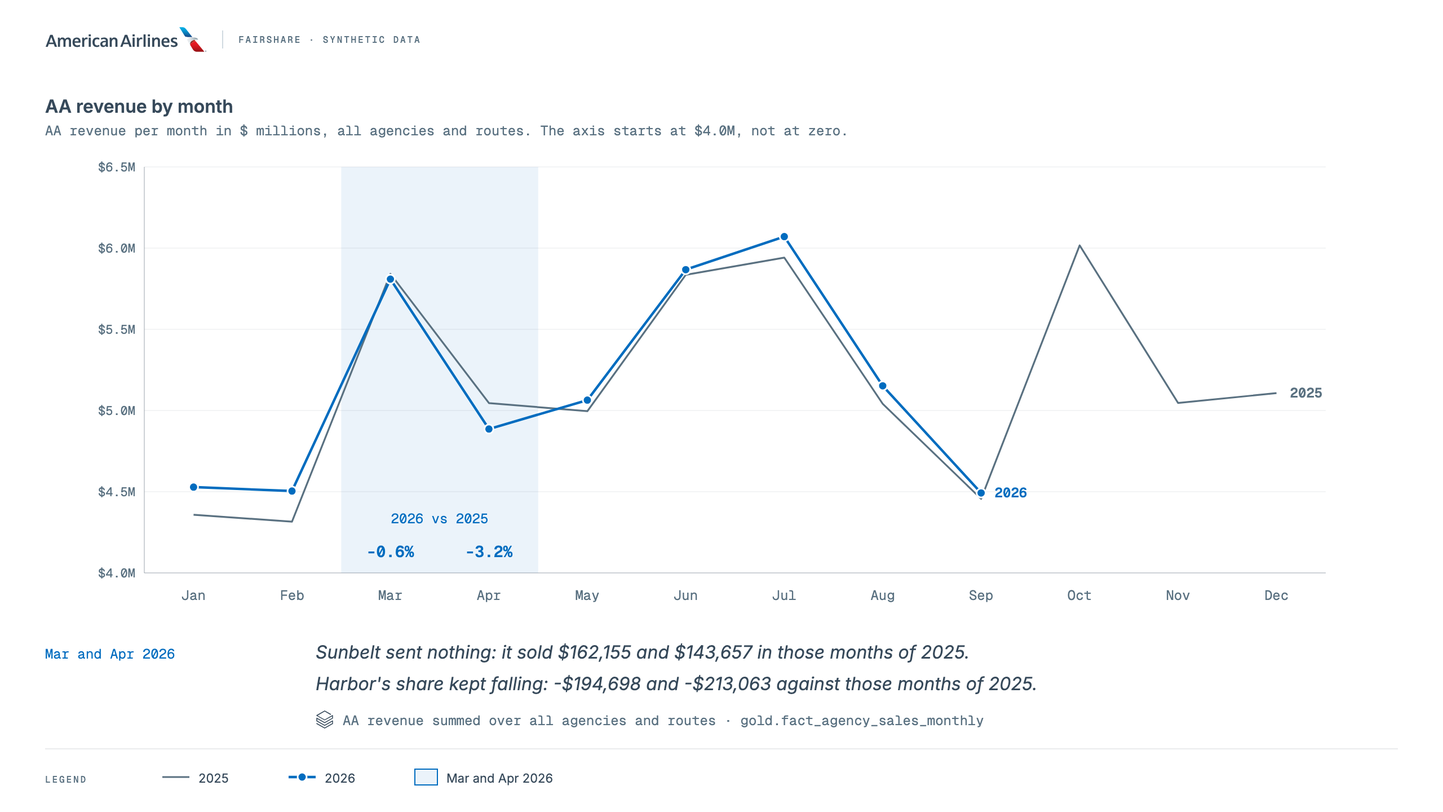
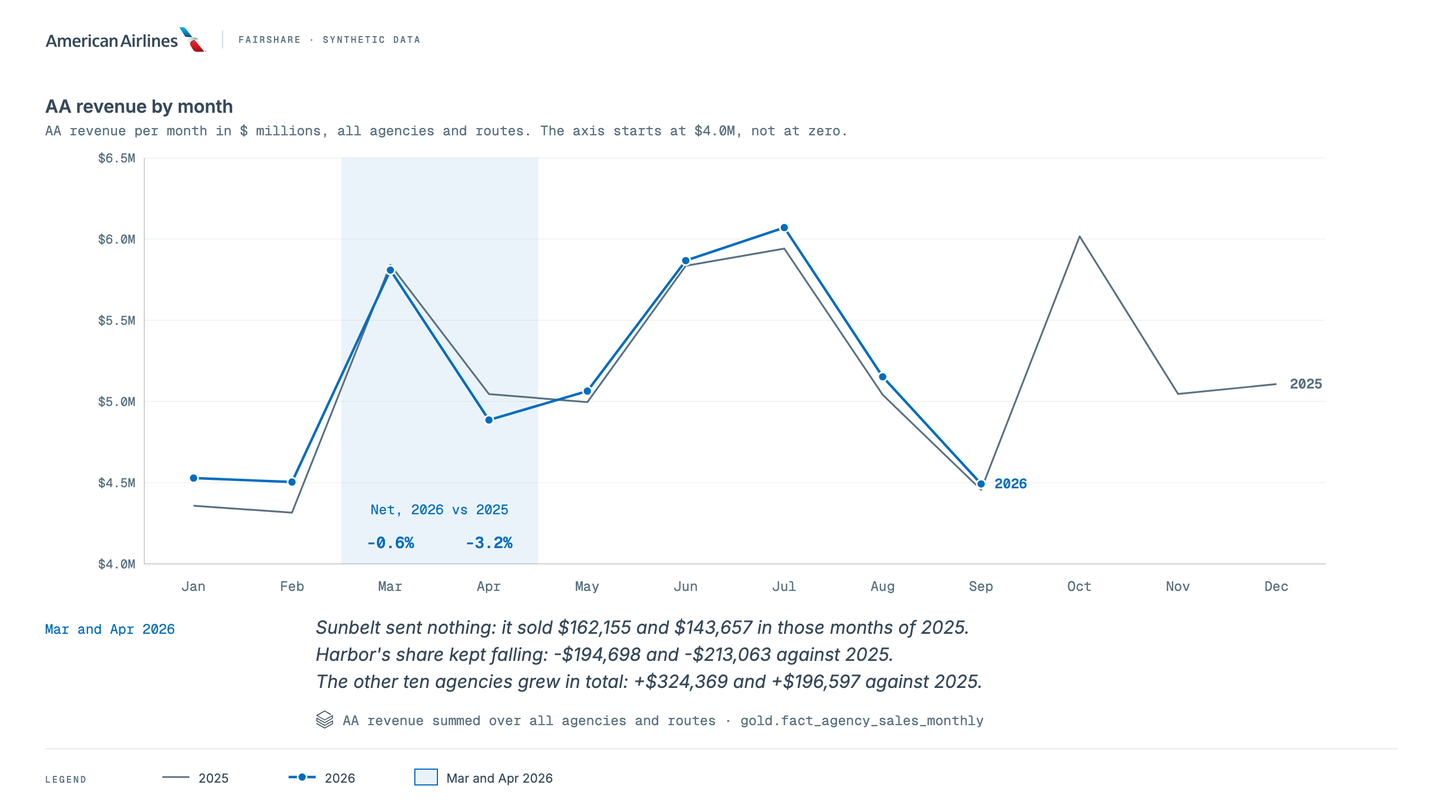
diagrams: 11's callout adds up to the net change, and deck_facts gets display()
The callout named two causes that add up to about -$357K in each month, while the lines move only
-$32K in March and -$160K in April, because the other agencies grew. It now names all three.

deck_facts.py has two new facts, others_mar26_chg_usd (+$324,369) and others_apr26_chg_usd
(+$196,597): the change in AA revenue against the same month of 2025, added up over every agency
except Sunbelt Vacations and Harbor Business Travel. facts.json is regenerated (56 facts).

Figure 11 says "grew in total" because not every one of the ten grew (8 in March, 7 in April).
The band's caption now says Net, and the builder asserts on every build that Sunbelt's loss,
Harbor's change and the others' change add up to the change the two lines show, to within the
dollar or two the rounding of three parts can add.

display(key) sits beside fact() in deck_facts.py and returns the string a slide shows, from the
same formatter that writes facts.json. Both builders use it in place of their own shown(), and a
new test checks display() against the stored string for every fact. Figure 10 is unchanged.

diff --git a/docs/diagrams/11-revenue-by-month.html b/docs/diagrams/11-revenue-by-month.html
@@ -38,56 +38,57 @@
     <div class="diagram-container">
       <svg viewBox="0 0 1280 720" xmlns="http://www.w3.org/2000/svg" role="img" aria-labelledby="11-revenue-by-month-title 11-revenue-by-month-desc">
         <title id="11-revenue-by-month-title">AA revenue by month</title>
-        <desc id="11-revenue-by-month-desc">Two lines of AA revenue by calendar month, 2025 against 2026: 2026 runs above 2025 except in Mar and Apr 2026, when Sunbelt sent nothing and Harbor's share kept falling.</desc>
+        <desc id="11-revenue-by-month-desc">Two lines of AA revenue by calendar month, 2025 against 2026: 2026 runs above 2025 except in Mar and Apr 2026, when Sunbelt sent nothing and Harbor's share kept falling, though the other agencies grew in total.</desc>
         <rect width="100%" height="100%" fill="#ffffff"/>
         <g data-brand="aa-logo" aria-hidden="true"><svg x="40" y="24" width="143.48" height="22" viewBox="0 0 300 46" aria-hidden="true"><linearGradient id="aa-logo-a" gradientUnits="userSpaceOnUse" x1="282.3005" x2="282.3005" y1="26.0772" y2="55.6668"><stop offset="0" stop-color="#ed1c24"/><stop offset=".1263" stop-color="#e81b23"/><stop offset=".2703" stop-color="#db1a21"/><stop offset=".4229" stop-color="#c4171d"/><stop offset=".5816" stop-color="#a41317"/><stop offset=".7436" stop-color="#7b0e10"/><stop offset=".7546" stop-color="#780e0f"/></linearGradient><linearGradient id="aa-logo-b" gradientUnits="userSpaceOnUse" x1="268.8272" x2="279.6261" y1="28.5396" y2="28.5396"><stop offset="0" stop-color="#69231d"/><stop offset=".2647" stop-color="#8d2922"/><stop offset=".5812" stop-color="#b22f26"/><stop offset=".8377" stop-color="#c93329"/><stop offset="1" stop-color="#d1342a"/></linearGradient><linearGradient id="aa-logo-c" gradientUnits="userSpaceOnUse" x1="267.6408" x2="279.6741" y1="26.9613" y2="19.731"><stop offset=".1" stop-color="#e7ebee"/><stop offset=".3511" stop-color="#d5dce0"/><stop offset=".8549" stop-color="#a5b4bb"/><stop offset="1" stop-color="#96a7b0"/></linearGradient><linearGradient id="aa-logo-d" gradientUnits="userSpaceOnUse" x1="261.0076" x2="261.0076" y1="20.8726" y2=".4301"><stop offset="0" stop-color="#1c2f72"/><stop offset=".1275" stop-color="#174687"/><stop offset=".4038" stop-color="#0d72af"/><stop offset=".6512" stop-color="#0692cc"/><stop offset=".8584" stop-color="#02a6de"/><stop offset="1" stop-color="#00ade4"/></linearGradient><path d="m274.15 41.58c2.61 4.29 6.78 4.2 7.89 4.2h13.41l-15.82-19.2c-7.3.3-11.16 4.98-10.37 6.94z" fill="url(#aa-logo-a)"/><path d="m269.26 33.53c-.02-.03-.43-1-.43-2.17 0-4.38 3.89-6.9 8.3-7.8l2.5 3.03c-7.3.29-11.16 4.97-10.37 6.94z" fill="url(#aa-logo-b)"/><path d="m275.36 19.27c-6.67 0-11.65 1.1-11.65 3.71 0 .96.3 1.79 1.12 3.26l4.43 7.28c-.02-.03-.43-1-.43-2.17 0-4.38 3.89-6.9 8.3-7.8 1.28-.26 2.6-.39 3.88-.39 1.08 0 2.1.06 2.88.34-.46-1.68-1.68-4.23-8.53-4.23z" fill="url(#aa-logo-c)"/><path d="m257.82 14.73c1.83 3.01 2.51 3.76 6.88 3.76h8.34l-11.5-14.52c-2.54-3.14-4-3.71-6.33-3.76h-6.23z" fill="url(#aa-logo-d)"/><path d="m130.35 36.68v-10.95c0-2.09-.95-3.37-2.74-3.37-2.37 0-3.94 2.52-3.94 5.92v8.4h-3.84s0-12.11 0-12.45c0-1.37-.13-3.37-.19-4.5h3.09c.35 0 .45.15.46.46.01.36.04 2.12.04 2.12h.09c.47-.8 1.65-2.93 5.2-2.93 3.66 0 5.71 2.5 5.71 5.31v12h-3.88zm-30.08-3.72c.1 0 .25.07.28.36.07.81.1 2.13.11 2.54-.77.39-2.44 1.14-4.48 1.14-5.14 0-8.28-2.98-8.28-8.81 0-5.46 2.8-8.82 8.28-8.82 1.82 0 3.49.64 4.48 1.14 0 .6-.06 1.97-.11 2.55-.02.24-.14.36-.28.36-.15 0-.2-.04-.3-.08-1.24-.61-2.4-.9-3.45-.9-3.27 0-4.61 2.14-4.61 5.76 0 3.22 1.08 5.75 4.61 5.75 1.35 0 2.58-.48 3.35-.85.2-.1.24-.14.4-.14zm13.3 3.72c-.31 0-.57-.1-.6-.55-.04-.55-.11-1.62-.11-1.62-.28.31-1.68 2.5-5.2 2.5-3.37 0-5.31-2.6-5.31-5.45 0-3.96 3.84-5.94 9.54-5.94h.76v-.62c0-1.78-1.26-2.73-3.62-2.73-2.12 0-3.89.75-4.57 1.09-.05.02-.17.1-.29.1-.18 0-.29-.11-.3-.31-.03-.64-.1-1.86-.11-2.64.69-.27 3-1.12 5.53-1.12 5.04 0 7.2 2.34 7.2 6.07v6.61c0 2.41.22 3.99.3 4.62 0-.01-2.95-.01-3.22-.01zm-.93-8.6s-.58 0-.65 0c-4.83 0-5.79 1.68-5.79 3.39 0 1.39.92 2.72 2.73 2.72 2.4 0 3.71-2.32 3.71-4.76zm-48.27 4.88c.21 0 .27.19.29.38.07.72.13 2.36.12 2.77-.41.13-2.48.89-5.26.89-5.4 0-8.64-2.79-8.64-8.81 0-5.15 2.77-8.82 7.75-8.82 4.88 0 7.21 3.27 7.21 7.32 0 .48-.05 1.28-.14 2.35h-10.87c0 2.9 1.85 4.98 5.25 4.98 1.88 0 3.38-.67 3.97-.96.11-.06.18-.1.32-.1zm-9.5-6.5h7.13c.15-2.73-1.28-4.26-3.45-4.26-2.27 0-3.57 1.64-3.68 4.26zm-10.64 10.22v-10.84c0-1.95-.83-3.47-2.82-3.47-2.25 0-3.54 2.46-3.54 5.9v8.42h-3.85v-10.89c0-1.78-.74-3.44-2.81-3.44-2.28 0-3.55 2.45-3.55 6.02v8.29h-3.85s0-10.71 0-12.35c0-1.59-.14-3.85-.19-4.6h3.08c.35 0 .46.11.47.47.01.45.04 2.1.04 2.1h.09c.24-.48 1.5-2.93 5.03-2.93 3.29 0 4.55 2.36 4.86 3.09.3-.64 1.77-3.09 5.08-3.09 3.45 0 5.8 1.85 5.8 5.57v11.74h-3.84zm28.42-8.27v8.27h-3.85s0-11.42 0-12.6c0-1.21-.14-3.52-.19-4.36h3.11c.33 0 .44.14.44.47.01.5.04 2.1.04 2.1h.09c.31-.73 1.4-2.93 4.59-2.93 1.07 0 1.87.34 2 .4 0 .73-.08 2.33-.12 2.76-.02.28-.15.37-.28.37s-.19-.03-.27-.06c-.24-.1-.8-.27-1.57-.27-2.06.01-3.99 1.49-3.99 5.85zm8.26 8.27v-16.95h3.84v16.95zm-.05-19.43v-3.72h3.94v3.72zm-62.88 19.43-1.77-5h-9.42l-1.77 5h-4.02l8.45-22.26h4.48l8.31 22.26zm-6.44-18.2h-.07l-3.6 10.18h7.28zm226.82 18.52c5.01 0 7.41-2.05 7.41-5.09 0-3-2.13-4.26-4.39-5-.65-.21-1.28-.42-1.87-.62-1.54-.51-2.35-1.18-2.35-2.18 0-1.06.96-1.8 2.97-1.8 1.78 0 3.24.73 3.81 1 .1.04.18.11.34.11.12 0 .27-.08.29-.38.04-.57.11-1.6.11-2.59-.47-.21-2.15-1.08-4.86-1.08-4.14 0-6.68 2.15-6.68 4.99 0 2.75 1.88 4.01 3.96 4.7.48.16 1.36.45 1.88.63 2.16.72 2.78 1.37 2.78 2.38 0 1.32-1.41 1.97-3.82 1.97-1.98 0-3.35-.73-3.9-.98-.11-.05-.18-.11-.33-.11-.28 0-.29.38-.29.44-.01.18-.1 1.94-.1 2.52.43.21 2.4 1.09 5.04 1.09zm-9.01-4.04c.21 0 .28.19.29.38.07.72.13 2.36.12 2.77-.41.13-2.48.89-5.26.89-5.4 0-8.64-2.79-8.64-8.8 0-5.16 2.77-8.83 7.74-8.83 4.89 0 7.21 3.27 7.21 7.32 0 .48-.05 1.28-.14 2.35h-10.87c0 2.89 1.85 4.97 5.25 4.97 1.88 0 3.37-.67 3.96-.96.13-.04.2-.09.34-.09zm-9.5-6.5h7.12c.15-2.73-1.29-4.26-3.45-4.26-2.26 0-3.56 1.64-3.67 4.26zm-10.65 10.22v-10.95c0-2.09-.95-3.37-2.74-3.37-2.37 0-3.94 2.52-3.94 5.92v8.4h-3.85s0-12.11 0-12.45c0-1.37-.13-3.37-.19-4.5h3.09c.35 0 .45.14.45.46.01.36.04 2.12.04 2.12h.09c.46-.8 1.65-2.93 5.19-2.93 3.66 0 5.7 2.5 5.7 5.31v12h-3.84zm-35.04-8.27v8.27h-3.86s0-11.42 0-12.6c0-1.21-.14-3.52-.19-4.35h3.11c.34 0 .43.14.44.47.01.5.03 2.1.03 2.1h.09c.3-.73 1.4-2.93 4.59-2.93 1.07 0 1.86.35 1.99.4 0 .73-.08 2.33-.12 2.75-.03.28-.15.37-.28.37s-.19-.03-.26-.06c-.24-.1-.8-.27-1.58-.27-2.03.01-3.96 1.49-3.96 5.85zm12.27 8.27v-23.13h-3.85v23.13zm-24.16 0v-16.95h3.85v16.95zm-.05-19.43v-3.72h3.94v3.72zm28.41 19.43v-16.95h3.85v16.95zm-.05-19.43v-3.72h3.94v3.72zm-34.15 19.43-1.76-5h-9.43l-1.77 5h-4.02l8.44-22.26h4.48l8.31 22.26zm-6.45-18.2h-.07l-3.6 10.18h7.28zm149.02 26.29c0 .57-.45 1.02-1.02 1.02s-1.02-.45-1.02-1.02c0-.56.45-1.02 1.02-1.02.57-.01 1.02.45 1.02 1.02zm-1.84 0c0 .45.37.82.82.82s.82-.37.82-.82-.37-.82-.82-.82c-.46-.01-.82.36-.82.82zm.79.06h-.09v.42h-.18v-1.02h.3c.23 0 .36.12.36.3 0 .21-.17.26-.2.27l.25.45h-.21zm-.02-.12c.15 0 .23-.07.23-.17s-.08-.17-.23-.17c-.05 0-.07.01-.07.01v.33c0-.01.04 0 .07 0z" fill="#36495a"/></svg><line x1="197.48" y1="27" x2="197.48" y2="43" stroke="#d0dae0" stroke-width="1"/><text x="211.48" y="38.0" fill="#5a7181" font-size="8" font-weight="500" font-family="'Geist Mono', ui-monospace, monospace" letter-spacing="0.18em">FAIRSHARE · SYNTHETIC DATA</text></g>
         <text x="40" y="100" fill="#36495a" font-size="16" font-weight="600" font-family="'Inter', system-ui, sans-serif" text-anchor="start">AA revenue by month</text>
         <text x="40" y="120" fill="#5a7181" font-size="12" font-weight="400" font-family="'Geist Mono', ui-monospace, monospace" text-anchor="start">AA revenue per month in $ millions, all agencies and routes. The axis starts at $4.0M, not at zero.</text>
-        <rect x="302.7" y="148" width="174.7" height="360" fill="rgba(0,108,191,0.08)"/>
-        <line x1="128" y1="436.00" x2="1176" y2="436.00" stroke="rgba(54,73,90,0.08)" stroke-width="0.8"/>
-        <line x1="128" y1="364.00" x2="1176" y2="364.00" stroke="rgba(54,73,90,0.08)" stroke-width="0.8"/>
-        <line x1="128" y1="292.00" x2="1176" y2="292.00" stroke="rgba(54,73,90,0.08)" stroke-width="0.8"/>
-        <line x1="128" y1="220.00" x2="1176" y2="220.00" stroke="rgba(54,73,90,0.08)" stroke-width="0.8"/>
-        <line x1="128" y1="148.00" x2="1176" y2="148.00" stroke="rgba(54,73,90,0.08)" stroke-width="0.8"/>
-        <text x="120" y="512.00" fill="#5a7181" font-size="11" font-weight="400" font-family="'Geist Mono', ui-monospace, monospace" text-anchor="end">$4.0M</text>
-        <text x="120" y="440.00" fill="#5a7181" font-size="11" font-weight="400" font-family="'Geist Mono', ui-monospace, monospace" text-anchor="end">$4.5M</text>
-        <text x="120" y="368.00" fill="#5a7181" font-size="11" font-weight="400" font-family="'Geist Mono', ui-monospace, monospace" text-anchor="end">$5.0M</text>
-        <text x="120" y="296.00" fill="#5a7181" font-size="11" font-weight="400" font-family="'Geist Mono', ui-monospace, monospace" text-anchor="end">$5.5M</text>
-        <text x="120" y="224.00" fill="#5a7181" font-size="11" font-weight="400" font-family="'Geist Mono', ui-monospace, monospace" text-anchor="end">$6.0M</text>
-        <text x="120" y="152.00" fill="#5a7181" font-size="11" font-weight="400" font-family="'Geist Mono', ui-monospace, monospace" text-anchor="end">$6.5M</text>
-        <line x1="128" y1="148" x2="128" y2="508" stroke="rgba(54,73,90,0.25)" stroke-width="1"/>
-        <line x1="128" y1="508" x2="1176" y2="508" stroke="rgba(54,73,90,0.25)" stroke-width="1"/>
-        <text x="171.7" y="532" fill="#5a7181" font-size="12" font-weight="400" font-family="'Geist Mono', ui-monospace, monospace" text-anchor="middle">Jan</text>
-        <text x="259.0" y="532" fill="#5a7181" font-size="12" font-weight="400" font-family="'Geist Mono', ui-monospace, monospace" text-anchor="middle">Feb</text>
-        <text x="346.3" y="532" fill="#5a7181" font-size="12" font-weight="400" font-family="'Geist Mono', ui-monospace, monospace" text-anchor="middle">Mar</text>
-        <text x="433.7" y="532" fill="#5a7181" font-size="12" font-weight="400" font-family="'Geist Mono', ui-monospace, monospace" text-anchor="middle">Apr</text>
-        <text x="521.0" y="532" fill="#5a7181" font-size="12" font-weight="400" font-family="'Geist Mono', ui-monospace, monospace" text-anchor="middle">May</text>
-        <text x="608.3" y="532" fill="#5a7181" font-size="12" font-weight="400" font-family="'Geist Mono', ui-monospace, monospace" text-anchor="middle">Jun</text>
-        <text x="695.7" y="532" fill="#5a7181" font-size="12" font-weight="400" font-family="'Geist Mono', ui-monospace, monospace" text-anchor="middle">Jul</text>
-        <text x="783.0" y="532" fill="#5a7181" font-size="12" font-weight="400" font-family="'Geist Mono', ui-monospace, monospace" text-anchor="middle">Aug</text>
-        <text x="870.3" y="532" fill="#5a7181" font-size="12" font-weight="400" font-family="'Geist Mono', ui-monospace, monospace" text-anchor="middle">Sep</text>
-        <text x="957.7" y="532" fill="#5a7181" font-size="12" font-weight="400" font-family="'Geist Mono', ui-monospace, monospace" text-anchor="middle">Oct</text>
-        <text x="1045.0" y="532" fill="#5a7181" font-size="12" font-weight="400" font-family="'Geist Mono', ui-monospace, monospace" text-anchor="middle">Nov</text>
-        <text x="1132.3" y="532" fill="#5a7181" font-size="12" font-weight="400" font-family="'Geist Mono', ui-monospace, monospace" text-anchor="middle">Dec</text>
-        <polyline points="171.7,456.4 259.0,462.6 346.3,242.8 433.7,357.4 521.0,364.6 608.3,243.7 695.7,228.4 783.0,358.1 870.3,442.3 957.7,217.6 1045.0,357.3 1132.3,348.6" fill="none" stroke="#5a7181" stroke-width="1.6" stroke-linejoin="round"/>
-        <polyline points="171.7,431.9 259.0,435.4 346.3,247.5 433.7,380.4 521.0,354.8 608.3,239.1 695.7,209.8 783.0,342.1 870.3,437.1" fill="none" stroke="#006cbf" stroke-width="2.2" stroke-linejoin="round"/>
-        <circle cx="171.7" cy="431.9" r="4" fill="#006cbf" stroke="#ffffff" stroke-width="1.5"/>
-        <circle cx="259.0" cy="435.4" r="4" fill="#006cbf" stroke="#ffffff" stroke-width="1.5"/>
-        <circle cx="346.3" cy="247.5" r="4" fill="#006cbf" stroke="#ffffff" stroke-width="1.5"/>
-        <circle cx="433.7" cy="380.4" r="4" fill="#006cbf" stroke="#ffffff" stroke-width="1.5"/>
-        <circle cx="521.0" cy="354.8" r="4" fill="#006cbf" stroke="#ffffff" stroke-width="1.5"/>
-        <circle cx="608.3" cy="239.1" r="4" fill="#006cbf" stroke="#ffffff" stroke-width="1.5"/>
-        <circle cx="695.7" cy="209.8" r="4" fill="#006cbf" stroke="#ffffff" stroke-width="1.5"/>
-        <circle cx="783.0" cy="342.1" r="4" fill="#006cbf" stroke="#ffffff" stroke-width="1.5"/>
-        <circle cx="870.3" cy="437.1" r="4" fill="#006cbf" stroke="#ffffff" stroke-width="1.5"/>
-        <text x="1144.3" y="352.6" fill="#5a7181" font-size="12" font-weight="600" font-family="'Geist Mono', ui-monospace, monospace" text-anchor="start">2025</text>
-        <text x="882.3" y="441.1" fill="#006cbf" font-size="12" font-weight="600" font-family="'Geist Mono', ui-monospace, monospace" text-anchor="start">2026</text>
-        <text x="390.0" y="464" fill="#006cbf" font-size="12" font-weight="400" font-family="'Geist Mono', ui-monospace, monospace" text-anchor="middle">2026 vs 2025</text>
-        <text x="346.3" y="494" fill="#006cbf" font-size="14" font-weight="600" font-family="'Geist Mono', ui-monospace, monospace" text-anchor="middle">-0.6%</text>
-        <text x="433.7" y="494" fill="#006cbf" font-size="14" font-weight="600" font-family="'Geist Mono', ui-monospace, monospace" text-anchor="middle">-3.2%</text>
-        <text x="40" y="584" fill="#006cbf" font-size="12" font-weight="400" font-family="'Geist Mono', ui-monospace, monospace" text-anchor="start">Mar and Apr 2026</text>
-        <text x="280" y="584" fill="#36495a" font-size="16" font-weight="400" font-family="'Inter', system-ui, sans-serif" text-anchor="start" font-style="italic">Sunbelt sent nothing: it sold $162,155 and $143,657 in those months of 2025.</text>
-        <text x="280" y="612" fill="#36495a" font-size="16" font-weight="400" font-family="'Inter', system-ui, sans-serif" text-anchor="start" font-style="italic">Harbor's share kept falling: -$194,698 and -$213,063 against those months of 2025.</text>
+        <rect x="302.7" y="140" width="174.7" height="360" fill="rgba(0,108,191,0.08)"/>
+        <line x1="128" y1="428.00" x2="1176" y2="428.00" stroke="rgba(54,73,90,0.08)" stroke-width="0.8"/>
+        <line x1="128" y1="356.00" x2="1176" y2="356.00" stroke="rgba(54,73,90,0.08)" stroke-width="0.8"/>
+        <line x1="128" y1="284.00" x2="1176" y2="284.00" stroke="rgba(54,73,90,0.08)" stroke-width="0.8"/>
+        <line x1="128" y1="212.00" x2="1176" y2="212.00" stroke="rgba(54,73,90,0.08)" stroke-width="0.8"/>
+        <line x1="128" y1="140.00" x2="1176" y2="140.00" stroke="rgba(54,73,90,0.08)" stroke-width="0.8"/>
+        <text x="120" y="504.00" fill="#5a7181" font-size="11" font-weight="400" font-family="'Geist Mono', ui-monospace, monospace" text-anchor="end">$4.0M</text>
+        <text x="120" y="432.00" fill="#5a7181" font-size="11" font-weight="400" font-family="'Geist Mono', ui-monospace, monospace" text-anchor="end">$4.5M</text>
+        <text x="120" y="360.00" fill="#5a7181" font-size="11" font-weight="400" font-family="'Geist Mono', ui-monospace, monospace" text-anchor="end">$5.0M</text>
+        <text x="120" y="288.00" fill="#5a7181" font-size="11" font-weight="400" font-family="'Geist Mono', ui-monospace, monospace" text-anchor="end">$5.5M</text>
+        <text x="120" y="216.00" fill="#5a7181" font-size="11" font-weight="400" font-family="'Geist Mono', ui-monospace, monospace" text-anchor="end">$6.0M</text>
+        <text x="120" y="144.00" fill="#5a7181" font-size="11" font-weight="400" font-family="'Geist Mono', ui-monospace, monospace" text-anchor="end">$6.5M</text>
+        <line x1="128" y1="140" x2="128" y2="500" stroke="rgba(54,73,90,0.25)" stroke-width="1"/>
+        <line x1="128" y1="500" x2="1176" y2="500" stroke="rgba(54,73,90,0.25)" stroke-width="1"/>
+        <text x="171.7" y="524" fill="#5a7181" font-size="12" font-weight="400" font-family="'Geist Mono', ui-monospace, monospace" text-anchor="middle">Jan</text>
+        <text x="259.0" y="524" fill="#5a7181" font-size="12" font-weight="400" font-family="'Geist Mono', ui-monospace, monospace" text-anchor="middle">Feb</text>
+        <text x="346.3" y="524" fill="#5a7181" font-size="12" font-weight="400" font-family="'Geist Mono', ui-monospace, monospace" text-anchor="middle">Mar</text>
+        <text x="433.7" y="524" fill="#5a7181" font-size="12" font-weight="400" font-family="'Geist Mono', ui-monospace, monospace" text-anchor="middle">Apr</text>
+        <text x="521.0" y="524" fill="#5a7181" font-size="12" font-weight="400" font-family="'Geist Mono', ui-monospace, monospace" text-anchor="middle">May</text>
+        <text x="608.3" y="524" fill="#5a7181" font-size="12" font-weight="400" font-family="'Geist Mono', ui-monospace, monospace" text-anchor="middle">Jun</text>
+        <text x="695.7" y="524" fill="#5a7181" font-size="12" font-weight="400" font-family="'Geist Mono', ui-monospace, monospace" text-anchor="middle">Jul</text>
+        <text x="783.0" y="524" fill="#5a7181" font-size="12" font-weight="400" font-family="'Geist Mono', ui-monospace, monospace" text-anchor="middle">Aug</text>
+        <text x="870.3" y="524" fill="#5a7181" font-size="12" font-weight="400" font-family="'Geist Mono', ui-monospace, monospace" text-anchor="middle">Sep</text>
+        <text x="957.7" y="524" fill="#5a7181" font-size="12" font-weight="400" font-family="'Geist Mono', ui-monospace, monospace" text-anchor="middle">Oct</text>
+        <text x="1045.0" y="524" fill="#5a7181" font-size="12" font-weight="400" font-family="'Geist Mono', ui-monospace, monospace" text-anchor="middle">Nov</text>
+        <text x="1132.3" y="524" fill="#5a7181" font-size="12" font-weight="400" font-family="'Geist Mono', ui-monospace, monospace" text-anchor="middle">Dec</text>
+        <polyline points="171.7,448.4 259.0,454.6 346.3,234.8 433.7,349.4 521.0,356.6 608.3,235.7 695.7,220.4 783.0,350.1 870.3,434.3 957.7,209.6 1045.0,349.3 1132.3,340.6" fill="none" stroke="#5a7181" stroke-width="1.6" stroke-linejoin="round"/>
+        <polyline points="171.7,423.9 259.0,427.4 346.3,239.5 433.7,372.4 521.0,346.8 608.3,231.1 695.7,201.8 783.0,334.1 870.3,429.1" fill="none" stroke="#006cbf" stroke-width="2.2" stroke-linejoin="round"/>
+        <circle cx="171.7" cy="423.9" r="4" fill="#006cbf" stroke="#ffffff" stroke-width="1.5"/>
+        <circle cx="259.0" cy="427.4" r="4" fill="#006cbf" stroke="#ffffff" stroke-width="1.5"/>
+        <circle cx="346.3" cy="239.5" r="4" fill="#006cbf" stroke="#ffffff" stroke-width="1.5"/>
+        <circle cx="433.7" cy="372.4" r="4" fill="#006cbf" stroke="#ffffff" stroke-width="1.5"/>
+        <circle cx="521.0" cy="346.8" r="4" fill="#006cbf" stroke="#ffffff" stroke-width="1.5"/>
+        <circle cx="608.3" cy="231.1" r="4" fill="#006cbf" stroke="#ffffff" stroke-width="1.5"/>
+        <circle cx="695.7" cy="201.8" r="4" fill="#006cbf" stroke="#ffffff" stroke-width="1.5"/>
+        <circle cx="783.0" cy="334.1" r="4" fill="#006cbf" stroke="#ffffff" stroke-width="1.5"/>
+        <circle cx="870.3" cy="429.1" r="4" fill="#006cbf" stroke="#ffffff" stroke-width="1.5"/>
+        <text x="1144.3" y="344.6" fill="#5a7181" font-size="12" font-weight="600" font-family="'Geist Mono', ui-monospace, monospace" text-anchor="start">2025</text>
+        <text x="882.3" y="433.1" fill="#006cbf" font-size="12" font-weight="600" font-family="'Geist Mono', ui-monospace, monospace" text-anchor="start">2026</text>
+        <text x="390.0" y="456" fill="#006cbf" font-size="12" font-weight="400" font-family="'Geist Mono', ui-monospace, monospace" text-anchor="middle">Net, 2026 vs 2025</text>
+        <text x="346.3" y="486" fill="#006cbf" font-size="14" font-weight="600" font-family="'Geist Mono', ui-monospace, monospace" text-anchor="middle">-0.6%</text>
+        <text x="433.7" y="486" fill="#006cbf" font-size="14" font-weight="600" font-family="'Geist Mono', ui-monospace, monospace" text-anchor="middle">-3.2%</text>
+        <text x="40" y="562" fill="#006cbf" font-size="12" font-weight="400" font-family="'Geist Mono', ui-monospace, monospace" text-anchor="start">Mar and Apr 2026</text>
+        <text x="280" y="562" fill="#36495a" font-size="16" font-weight="400" font-family="'Inter', system-ui, sans-serif" text-anchor="start" font-style="italic">Sunbelt sent nothing: it sold $162,155 and $143,657 in those months of 2025.</text>
+        <text x="280" y="586" fill="#36495a" font-size="16" font-weight="400" font-family="'Inter', system-ui, sans-serif" text-anchor="start" font-style="italic">Harbor's share kept falling: -$194,698 and -$213,063 against 2025.</text>
+        <text x="280" y="610" fill="#36495a" font-size="16" font-weight="400" font-family="'Inter', system-ui, sans-serif" text-anchor="start" font-style="italic">The other ten agencies grew in total: +$324,369 and +$196,597 against 2025.</text>
         <svg x="280" y="630" width="16" height="16" viewBox="0 0 24 24" aria-hidden="true"><path d="M.95 14.184L12 20.403l9.919-5.55v2.21L12 22.662l-10.484-5.96-.565.308v.77L12 24l11.05-6.218v-4.317l-.515-.309L12 19.118l-9.867-5.653v-2.21L12 16.805l11.05-6.218V6.32l-.515-.308L12 11.974 2.647 6.681 12 1.388l7.76 4.368.668-.411v-.566L12 0 .95 6.27v.72L12 13.207l9.919-5.55v2.26L12 15.52 1.516 9.56l-.565.308Z" fill="#36495a"/></svg>
         <text x="304" y="643" fill="#5a7181" font-size="12" font-weight="400" font-family="'Geist Mono', ui-monospace, monospace" text-anchor="start">AA revenue summed over all agencies and routes · gold.fact_agency_sales_monthly</text>
         <line x1="40" y1="664" x2="1240" y2="664" stroke="rgba(54,73,90,0.14)" stroke-width="0.8"/>

diff --git a/docs/diagrams/src/revenue.py b/docs/diagrams/src/revenue.py
@@ -14,22 +14,16 @@ from __future__ import annotations
 import math
 
 import aa
-from deck_facts import FACTS, FORMATS, MONTHS, fact, query
+from deck_facts import MONTHS, display, fact, query
 
 VW, VH = 1280, 720
 L, R = 128, 1176             # the plot's left and right edges, as in figure 08
-TOP, BASE = 148, 508         # the plot's top, and its floor
+TOP, BASE = 140, 500         # the plot's top, and its floor
 STEP = 500_000               # one gridline, in dollars
 INK_A = lambda a: f"rgba(54,73,90,{a})"
 FOCAL_TINT = "rgba(0,108,191,0.08)"
 CALLOUT_X = 280              # where the callout's sentences start, clear of its label
-
-_FORMAT = {key: fmt for key, _sql, fmt, _grain in FACTS}
-
-
-def shown(key: str) -> str:
-    """A fact the way the deck prints it (the `display` string in facts.json), from a live query."""
-    return FORMATS[_FORMAT[key]][1](fact(key))
+NUMBER_WORDS = ("zero", "one", "two", "three", "four", "five", "six", "seven", "eight", "nine", "ten", "eleven", "twelve")
 
 
 def text(x, y, s, *, size=12, weight=400, fill=aa.INK, mono=False, anchor="start", italic=False, spacing=None):
@@ -88,6 +82,12 @@ def check_claims(by_year, holes, shares) -> None:
     assert fact("sunbelt_mar25_usd") > 0 and fact("sunbelt_apr25_usd") > 0, "Sunbelt sold something in those months of 2025"
     assert all(a < b for a, b in shares.values()) and len(shares) == 2, "Harbor's share should be lower than a year earlier in both months"
     assert fact("harbor_mar26_chg_usd") < 0 and fact("harbor_apr26_chg_usd") < 0, "Harbor's AA revenue should be down in both months"
+    assert fact("others_mar26_chg_usd") > 0 and fact("others_apr26_chg_usd") > 0, "the other agencies should have grown in total in both months"
+    # Sunbelt's change is what it sold a year earlier, taken away; each part is rounded to the dollar, so the sum may be a dollar or two off
+    for month, sunbelt, harbor, others in ((3, "sunbelt_mar25_usd", "harbor_mar26_chg_usd", "others_mar26_chg_usd"),
+                                           (4, "sunbelt_apr25_usd", "harbor_apr26_chg_usd", "others_apr26_chg_usd")):
+        parts, net = -fact(sunbelt) + fact(harbor) + fact(others), now[month] - prior[month]
+        assert abs(parts - net) <= 2, f"Sunbelt, Harbor and the other agencies should add up to month {month}'s change: {parts} against {net:.0f}"
 
 
 # ---------------------------------------------------------------- the figure
@@ -129,16 +129,19 @@ def build(by_year, holes, shares) -> str:
         m = max(series)
         out.append(text(f"{x(m) + 12:.1f}", f"{y(series[m]) + 4:.1f}", str(year), size=12, weight=600, fill=color, mono=True))
     # the two months, against last year
-    out.append(text(f"{band_x + band_w / 2:.1f}", BASE - 44, f"{focal_year} vs {prior_year}", mono=True, fill=aa.ACCENT, anchor="middle"))
+    out.append(text(f"{band_x + band_w / 2:.1f}", BASE - 44, f"Net, {focal_year} vs {prior_year}", mono=True, fill=aa.ACCENT, anchor="middle"))
     for h, key in zip(gap_months, ("yoy_mar26", "yoy_apr26")):
-        out.append(text(f"{x(h.month):.1f}", BASE - 14, shown(key), size=14, weight=600, fill=aa.ACCENT, mono=True, anchor="middle"))
+        out.append(text(f"{x(h.month):.1f}", BASE - 14, display(key), size=14, weight=600, fill=aa.ACCENT, mono=True, anchor="middle"))
     # the one callout, and where the lines come from
-    cy = 584
+    cy = 562
+    others = fact("agencies") - 2  # the other agencies are all but Sunbelt and Harbor
     out.append(text(40, cy, span(gap_months), mono=True, fill=aa.ACCENT))
-    out.append(text(CALLOUT_X, cy, f"Sunbelt sent nothing: it sold {shown('sunbelt_mar25_usd')} and {shown('sunbelt_apr25_usd')} in those months of {prior_year}.",
+    out.append(text(CALLOUT_X, cy, f"Sunbelt sent nothing: it sold {display('sunbelt_mar25_usd')} and {display('sunbelt_apr25_usd')} in those months of {prior_year}.",
                     size=16, italic=True))
-    out.append(text(CALLOUT_X, cy + 28, f"Harbor's share kept falling: {shown('harbor_mar26_chg_usd')} and {shown('harbor_apr26_chg_usd')} "
-                                        f"against those months of {prior_year}.", size=16, italic=True))
+    out.append(text(CALLOUT_X, cy + 24, f"Harbor's share kept falling: {display('harbor_mar26_chg_usd')} and {display('harbor_apr26_chg_usd')} against {prior_year}.",
+                    size=16, italic=True))
+    out.append(text(CALLOUT_X, cy + 48, f"The other {NUMBER_WORDS[others]} agencies grew in total: {display('others_mar26_chg_usd')} and {display('others_apr26_chg_usd')} against {prior_year}.",
+                    size=16, italic=True))
     out.append(aa.icon("databricks", CALLOUT_X, 630, 16))
     out.append(text(CALLOUT_X + 24, 643, "AA revenue summed over all agencies and routes · gold.fact_agency_sales_monthly", mono=True, fill=aa.MUTED))
     # legend strip
@@ -163,7 +166,7 @@ TITLE = "AA revenue by month"
 def desc(by_year, holes) -> str:
     years = sorted(by_year)
     return (f"Two lines of AA revenue by calendar month, {years[-2]} against {years[-1]}: {years[-1]} runs above {years[-2]} except in "
-            f"{span([h['sales_month'] for h in holes])}, when Sunbelt sent nothing and Harbor's share kept falling.")
+            f"{span([h['sales_month'] for h in holes])}, when Sunbelt sent nothing and Harbor's share kept falling, though the other agencies grew in total.")
 
 
 if __name__ == "__main__":

diff --git a/docs/diagrams/src/deck_facts.py b/docs/diagrams/src/deck_facts.py
@@ -8,7 +8,8 @@ DATED     numbers a local query cannot reproduce (a Databricks run, a results fi
 COLUMNS   the tables a slide shows: an example row, and what each column means in one plain sentence.
 CHECKS    sentences the data must keep true: (sentence, SQL that returns one value, the value it must return).
 
-Slides and notes write a number as a {key}; the deck fills it from facts.json. The figure builders call fact(key).
+Slides and notes write a number as a {key}; the deck fills it from facts.json. The figure builders call fact(key) for a value and
+display(key) for the string a slide shows.
 The data is deterministic (data/make_data.py, seed 88201), so a Databricks build returns the same values.
 """
 from __future__ import annotations
@@ -158,6 +159,18 @@ def _sunbelt_2025(month: str) -> str:
         FROM aa_demo.gold.fact_agency_sales_monthly s
         JOIN aa_demo.gold.dim_agency a ON a.agency_id = s.agency_id
         WHERE a.agency_name = 'Sunbelt Vacations' AND s.sales_month = DATE '2025-{month}-01'"""
+
+
+def _others_move(month: str) -> str:
+    """The change in AA revenue in `month` of 2026 against the same month of 2025, added up over every agency except Sunbelt
+    Vacations (no rows in Mar and Apr 2026) and Harbor Business Travel (its own facts), so that the three parts can be added."""
+    return f"""
+        SELECT ROUND(SUM(CASE WHEN s.sales_month = DATE '2026-{month}-01' THEN s.aa_revenue END)
+                   - SUM(CASE WHEN s.sales_month = DATE '2025-{month}-01' THEN s.aa_revenue END)) AS value
+        FROM aa_demo.gold.fact_agency_sales_monthly s
+        JOIN aa_demo.gold.dim_agency a ON a.agency_id = s.agency_id
+        WHERE a.agency_name NOT IN ('Sunbelt Vacations', 'Harbor Business Travel')
+          AND s.sales_month IN (DATE '2025-{month}-01', DATE '2026-{month}-01')"""
 
 
 def _pace(agency: str, month: str, old_rule: bool = False) -> str:
@@ -311,7 +324,7 @@ FACTS: list[tuple[str, str, str, str]] = [
     ("harbor_share_jun26", _harbor_share("2026-06-01"), "pct", "Harbor Business Travel, Jun 2026: AA share, all routes together."),
     ("harbor_share_jul26", _harbor_share("2026-07-01"), "pct", "Harbor Business Travel, Jul 2026: AA share, all routes together."),
 
-    # --- the two months Sunbelt is missing from, and what Harbor did in them
+    # --- the two months Sunbelt is missing from, what Harbor did in them, and what the other agencies did
     ("yoy_mar26", _yoy("03"), "pct", "Mar 2026, all agencies: AA revenue against Mar 2025."),
     ("yoy_apr26", _yoy("04"), "pct", "Apr 2026, all agencies: AA revenue against Apr 2025."),
     ("sunbelt_mar25_usd", _sunbelt_2025("03"), "usd", "Sunbelt Vacations, Mar 2025: AA revenue, in the month it is missing from in 2026."),
@@ -320,6 +333,10 @@ FACTS: list[tuple[str, str, str, str]] = [
      "Harbor Business Travel, Mar 2026: the change in AA revenue against Mar 2025."),
     ("harbor_apr26_chg_usd", _harbor_move("delta_revenue", "2026-04-01"), "usd_signed",
      "Harbor Business Travel, Apr 2026: the change in AA revenue against Apr 2025."),
+    ("others_mar26_chg_usd", _others_move("03"), "usd_signed",
+     "Every agency except Sunbelt Vacations and Harbor Business Travel, added up, Mar 2026: the change in AA revenue against Mar 2025."),
+    ("others_apr26_chg_usd", _others_move("04"), "usd_signed",
+     "Every agency except Sunbelt Vacations and Harbor Business Travel, added up, Apr 2026: the change in AA revenue against Apr 2025."),
 
     # --- pace in Sep 2026, and Sunbelt's before and after counting only the months it reported
     ("harbor_pace_sep26", _pace("Harbor Business Travel", "2026-09-01"), "pts",
@@ -706,6 +723,11 @@ _BY_KEY = {f[0]: f for f in FACTS}
 def fact(key: str):
     """One fact's value, for the figure builders. Runs only that fact's query, once per process."""
     return _run_fact(*_BY_KEY[key])["value"]
+
+
+def display(key: str) -> str:
+    """One fact the way a slide shows it: the `display` string facts.json stores for the key, from the same formatter."""
+    return FORMATS[_BY_KEY[key][2]][1](fact(key))
 
 
 def _print_all() -> None:

diff --git a/docs/diagrams/src/coverage.py b/docs/diagrams/src/coverage.py
@@ -15,7 +15,7 @@ build what the text says about the data.
 from __future__ import annotations
 
 import aa
-from deck_facts import FACTS, FORMATS, MONTHS, fact, query
+from deck_facts import FORMATS, MONTHS, display, fact, query
 
 VW, VH = 1280, 720
 GX, GY = 232, 200            # the grid's top-left corner
@@ -26,13 +26,6 @@ LOW, HIGH = 0.05, 0.20       # ink opacity of a cell with no routes, and of a ce
 INK_A = lambda a: f"rgba(54,73,90,{a})"  # noqa: E731
 NUMBER_WORDS = ("zero", "one", "two", "three", "four", "five", "six", "seven", "eight", "nine", "ten", "eleven", "twelve",
                 "thirteen", "fourteen", "fifteen", "sixteen", "seventeen", "eighteen", "nineteen", "twenty")
-
-_FORMAT = {key: fmt for key, _sql, fmt, _grain in FACTS}
-
-
-def shown(key: str) -> str:
-    """A fact the way the deck prints it (the `display` string in facts.json), from a live query."""
-    return FORMATS[_FORMAT[key]][1](fact(key))
 
 
 def text(x, y, s, *, size=12, weight=400, fill=aa.INK, mono=False, anchor="start", italic=False, spacing=None, extra=""):
@@ -91,7 +84,7 @@ def check_claims(agencies, months, routes, zero) -> None:
     assert len({a for a, _m in holes}) == 1, "the holes should be one agency's months"
     assert holes[0][0] == agencies[-1], "the label under the holes sits under the last row, so that agency must sort last"
     assert len(zero) == 1 and (zero[0]["agency_name"], zero[0]["sales_month"]) in routes, "one reported month should hold the zero"
-    assert zero[0]["route"] == fact("northstar_zero_route") and key(zero[0]["sales_month"]) == shown("northstar_zero_month"), \
+    assert zero[0]["route"] == fact("northstar_zero_route") and key(zero[0]["sales_month"]) == display("northstar_zero_month"), \
         "the zero should be on the route and in the month the facts name"
 
 
@@ -107,7 +100,7 @@ def build(agencies, months, routes, zero) -> str:
     out = [f'<rect width="100%" height="100%" fill="{aa.PAPER}"/>', aa.brand(tag="fairshare · synthetic data")]
     # what the chart is about, inside the image because a slide takes the SVG alone
     out.append(text(40, 100, "Every agency, every month", size=16, weight=600))
-    out.append(text(40, 120, f"{shown('agency_months_present')} of {shown('agency_months_total')} agency-months have rows, "
+    out.append(text(40, 120, f"{display('agency_months_present')} of {display('agency_months_total')} agency-months have rows, "
                              f"each with all {NUMBER_WORDS[total]} routes", mono=True, fill=aa.MUTED))
     # the columns: a rule and the year over each year's months, then every month
     for year in sorted({m.year for m in months}):
@@ -160,8 +153,8 @@ TITLE = "Every agency, every month"
 def desc(agencies, months, routes, zero) -> str:
     z = zero[0]
     holes = holes_of(agencies, months, routes)
-    return (f"Grid of {shown('agencies')} agencies by {shown('months')} months, {key(months[0])} to {key(months[-1])}, where "
-            f"{shown('agency_months_present')} of {shown('agency_months_total')} agency-months have rows with all {NUMBER_WORDS[fact('routes')]} routes: "
+    return (f"Grid of {display('agencies')} agencies by {display('months')} months, {key(months[0])} to {key(months[-1])}, where "
+            f"{display('agency_months_present')} of {display('agency_months_total')} agency-months have rows with all {NUMBER_WORDS[fact('routes')]} routes: "
             f"{holes[0][0]} has none for {span([m for _a, m in holes])}, and {z['agency_name']}'s {key(z['sales_month'])} is reported "
             f"with AA at {FORMATS['usd'][1](int(z['aa_revenue']))} on {z['route']}.")
 

diff --git a/evals/test_deck_facts.py b/evals/test_deck_facts.py
@@ -42,6 +42,11 @@ def test_dated_facts_in_the_file_are_the_ones_written_in_deck_facts():
     assert STORED.get("dated") == json.loads(json.dumps(deck_facts.DATED)), "rerun: FAIRSHARE_BACKEND=duckdb .venv/bin/python docs/diagrams/src/deck_facts.py"
 
 
+def test_display_is_the_string_the_file_stores():
+    """The figures print display(key) and a slide prints the stored display, so for every fact they must be the same string."""
+    assert {k: deck_facts.display(k) for k, *_ in deck_facts.FACTS} == {k: f["display"] for k, f in STORED["facts"].items()}
+
+
 def test_the_numbers_said_out_loud():
     v = {k: f["value"] for k, f in deck_facts.collect()["facts"].items()}
     assert (v["summit_q3_aa_share"], v["summit_q3_fair_share"], v["summit_q3_gap_usd"], v["summit_q3_pax_share"]) == (53.5, 37.6, 88391, 52.4)
